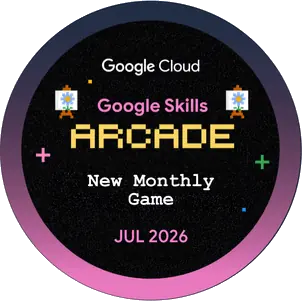
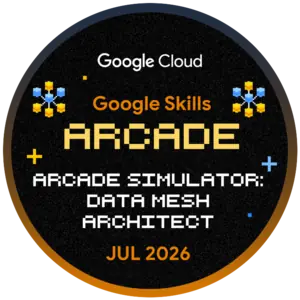
feat: real Data Mesh Architect badge art
Replace placeholder game-new.webp with the actual Arcade Simulator: Data
Mesh Architect badge (cropped to circle, transparent to match siblings).
Bump image cache-buster v2 to v3.

diff --git a/src/Insights.jsx b/src/Insights.jsx
@@ -102,7 +102,7 @@ export function MonthlyGames({ badges }) {
           const ok = done(g.re)
           return (
             <div key={g.name} className={'gamecard' + (ok ? ' done' : '')}>
-              <img src={g.img + '?v=2'} alt={g.name} loading="lazy" />
+              <img src={g.img + '?v=3'} alt={g.name} loading="lazy" />
               <div className="gc-name">{g.name}</div>
               {g.sub && <div className="gc-sub">{g.sub}</div>}
               <div className={'gc-status' + (ok ? ' ok' : '')}>{ok ? '✓ Selesai' : 'Belum'}</div>

diff --git a/src/pages/Catalog.jsx b/src/pages/Catalog.jsx
@@ -14,7 +14,7 @@ function GameCard({ g }) {
     } catch { /* clipboard tak tersedia: kode tetap terlihat untuk disalin manual */ }
   }
   const url = g.game ? gameUrl(g.game) : null
-  const badge = <img src={g.img + '?v=2'} alt={g.name} loading="lazy" />
+  const badge = <img src={g.img + '?v=3'} alt={g.name} loading="lazy" />
   return (
     <div className={'gamecard' + (g.done ? ' done' : '')}>
       {url ? (
